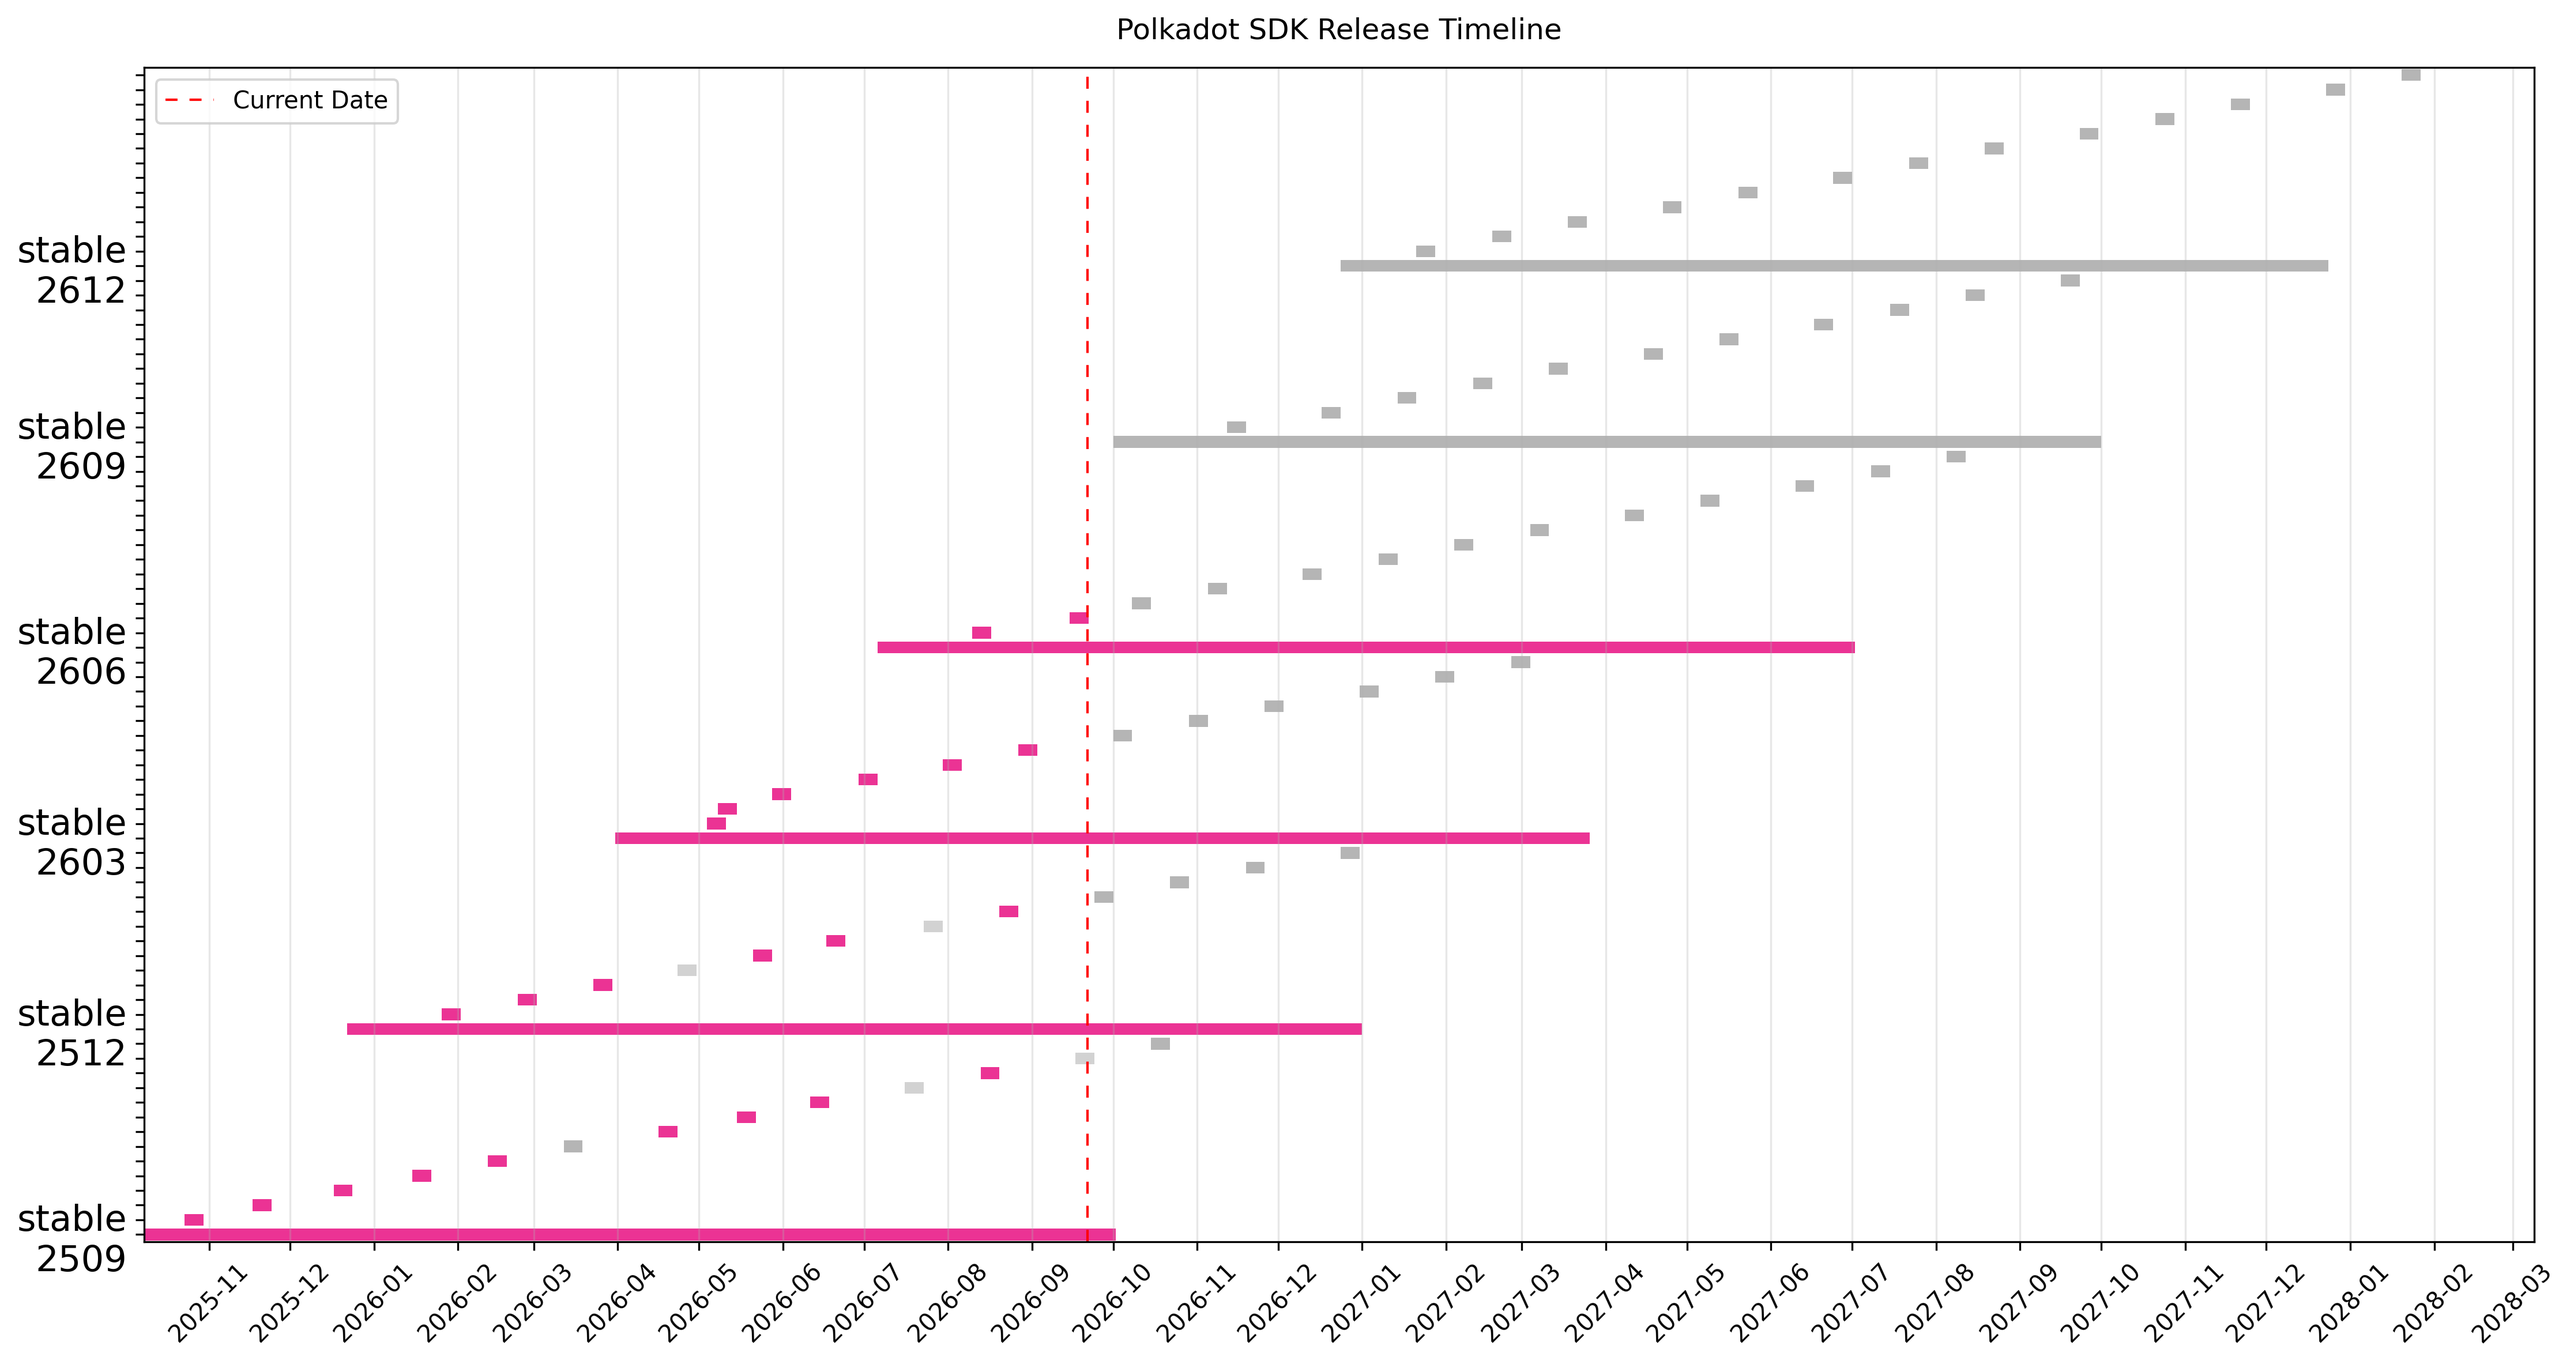
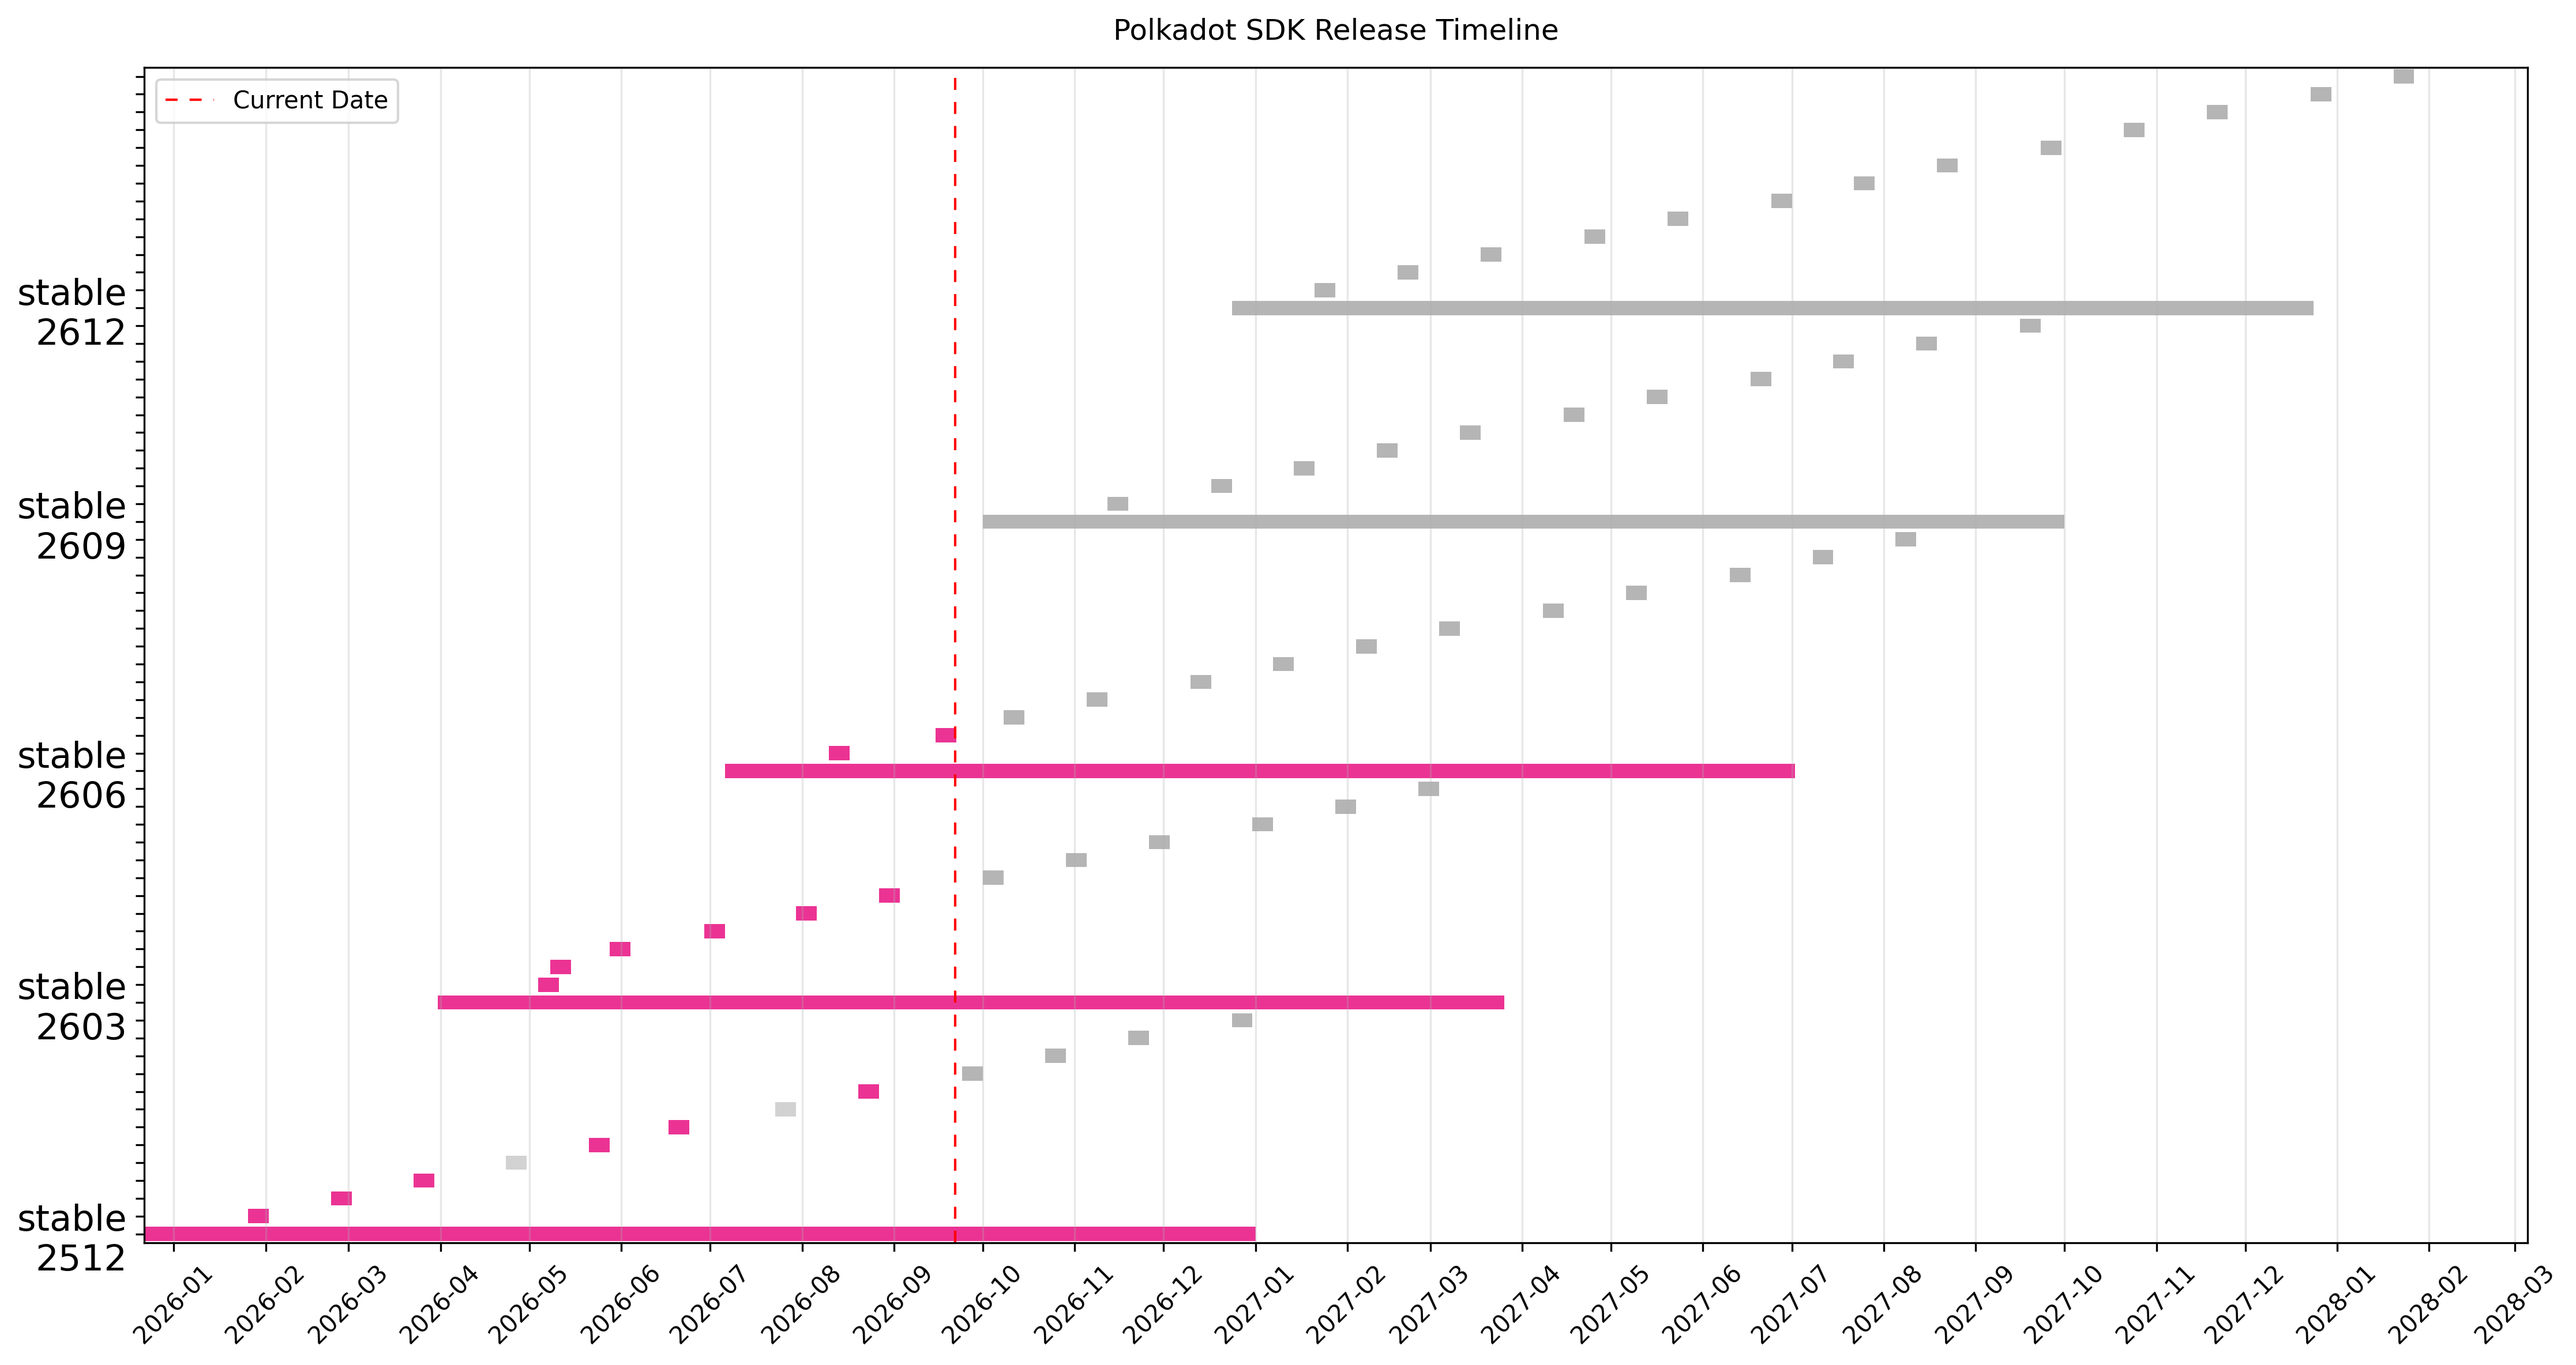
Deprecate stable2509 + add an action that automates it (#162)

diff --git a/CALENDAR.md b/CALENDAR.md
@@ -74,20 +74,20 @@ Full untruncated version index.
 | &nbsp;&nbsp;stable2512-10 | 1.21.10 | 2026-10-19 | 2026-10-22 |  | Planned |
 | &nbsp;&nbsp;stable2512-11 | 1.21.11 | 2026-11-16 | 2026-11-19 |  | Planned |
 | &nbsp;&nbsp;stable2512-12 | 1.21.12 | 2026-12-21 | 2026-12-24 |  | Planned |
-| **stable2509** | 1.20.0 | 2025-08-18 | 2025-10-08 | 2026-10-02 | [Released](https://github.com/paritytech/polkadot-sdk/releases/tag/polkadot-stable2509) |
-| &nbsp;&nbsp;stable2509-1 | 1.20.1 | 2025-10-23 | 2025-10-23 |  | [Released](https://github.com/paritytech/polkadot-sdk/releases/tag/polkadot-stable2509-1) |
-| &nbsp;&nbsp;stable2509-2 | 1.20.2 | 2025-11-17 | 2025-11-17 |  | [Released](https://github.com/paritytech/polkadot-sdk/releases/tag/polkadot-stable2509-2) |
-| &nbsp;&nbsp;stable2509-3 | 1.20.3 | 2025-12-17 | 2025-12-17 |  | [Released](https://github.com/paritytech/polkadot-sdk/releases/tag/polkadot-stable2509-3) |
-| &nbsp;&nbsp;stable2509-4 | 1.20.4 | 2026-01-15 | 2026-01-15 |  | [Released](https://github.com/paritytech/polkadot-sdk/releases/tag/polkadot-stable2509-4) |
-| &nbsp;&nbsp;stable2509-5 | 1.20.5 | 2026-02-12 | 2026-02-12 |  | [Released](https://github.com/paritytech/polkadot-sdk/releases/tag/polkadot-stable2509-5) |
-| &nbsp;&nbsp;stable2509-7 | 1.20.7 | 2026-04-13 | 2026-04-16 |  | [Released](https://github.com/paritytech/polkadot-sdk/releases/tag/polkadot-stable2509-7) |
-| &nbsp;&nbsp;stable2509-8 | 1.20.8 | 2026-05-15 | 2026-05-15 |  | [Released](https://github.com/paritytech/polkadot-sdk/releases/tag/polkadot-stable2509-8) |
-| &nbsp;&nbsp;stable2509-9 | 1.20.9 | 2026-06-11 | 2026-06-11 |  | [Released](https://github.com/paritytech/polkadot-sdk/releases/tag/polkadot-stable2509-9) |
+| **stable2509** | 1.20.0 | 2025-08-18 | 2025-10-08 | 2026-10-02 | ~~[Deprecated](https://github.com/paritytech/polkadot-sdk/releases/tag/polkadot-stable2509)~~ |
+| &nbsp;&nbsp;stable2509-1 | 1.20.1 | 2025-10-23 | 2025-10-23 |  | ~~[Deprecated](https://github.com/paritytech/polkadot-sdk/releases/tag/polkadot-stable2509-1)~~ |
+| &nbsp;&nbsp;stable2509-2 | 1.20.2 | 2025-11-17 | 2025-11-17 |  | ~~[Deprecated](https://github.com/paritytech/polkadot-sdk/releases/tag/polkadot-stable2509-2)~~ |
+| &nbsp;&nbsp;stable2509-3 | 1.20.3 | 2025-12-17 | 2025-12-17 |  | ~~[Deprecated](https://github.com/paritytech/polkadot-sdk/releases/tag/polkadot-stable2509-3)~~ |
+| &nbsp;&nbsp;stable2509-4 | 1.20.4 | 2026-01-15 | 2026-01-15 |  | ~~[Deprecated](https://github.com/paritytech/polkadot-sdk/releases/tag/polkadot-stable2509-4)~~ |
+| &nbsp;&nbsp;stable2509-5 | 1.20.5 | 2026-02-12 | 2026-02-12 |  | ~~[Deprecated](https://github.com/paritytech/polkadot-sdk/releases/tag/polkadot-stable2509-5)~~ |
+| &nbsp;&nbsp;stable2509-6 | 1.20.6 | 2026-03-09 | 2026-03-12 |  | ~~Cancelled~~ |
+| &nbsp;&nbsp;stable2509-7 | 1.20.7 | 2026-04-13 | 2026-04-16 |  | ~~[Deprecated](https://github.com/paritytech/polkadot-sdk/releases/tag/polkadot-stable2509-7)~~ |
+| &nbsp;&nbsp;stable2509-8 | 1.20.8 | 2026-05-15 | 2026-05-15 |  | ~~[Deprecated](https://github.com/paritytech/polkadot-sdk/releases/tag/polkadot-stable2509-8)~~ |
+| &nbsp;&nbsp;stable2509-9 | 1.20.9 | 2026-06-11 | 2026-06-11 |  | ~~[Deprecated](https://github.com/paritytech/polkadot-sdk/releases/tag/polkadot-stable2509-9)~~ |
 | &nbsp;&nbsp;stable2509-10 | 1.20.10 | 2026-07-13 | 2026-07-16 |  | ~~Cancelled~~ |
-| &nbsp;&nbsp;stable2509-11 | 1.20.11 | 2026-08-13 | 2026-08-13 |  | [Released](https://github.com/paritytech/polkadot-sdk/releases/tag/polkadot-stable2509-11) |
+| &nbsp;&nbsp;stable2509-11 | 1.20.11 | 2026-08-13 | 2026-08-13 |  | ~~[Deprecated](https://github.com/paritytech/polkadot-sdk/releases/tag/polkadot-stable2509-11)~~ |
 | &nbsp;&nbsp;stable2509-12 | 1.20.12 | 2026-09-14 | 2026-09-17 |  | ~~Cancelled~~ |
-| &nbsp;&nbsp;stable2509-6 | 1.20.6 | 2026-03-09 | 2026-03-12 |  | Planned |
-| &nbsp;&nbsp;stable2509-13 | 1.20.13 | 2026-10-12 | 2026-10-15 |  | Planned |
+| &nbsp;&nbsp;stable2509-13 | 1.20.13 | 2026-10-12 | 2026-10-15 |  | ~~Cancelled~~ |
 | **stable2506** | 1.19.0 | 2025-05-15 | 2025-07-24 | 2026-06-30 | ~~[Deprecated](https://github.com/paritytech/polkadot-sdk/releases/tag/polkadot-stable2506)~~ |
 | &nbsp;&nbsp;stable2506-1 | 1.19.1 | 2025-08-19 | 2025-08-19 |  | ~~[Deprecated](https://github.com/paritytech/polkadot-sdk/releases/tag/polkadot-stable2506-1)~~ |
 | &nbsp;&nbsp;stable2506-2 | 1.19.2 | 2025-09-08 | 2025-09-08 |  | ~~[Deprecated](https://github.com/paritytech/polkadot-sdk/releases/tag/polkadot-stable2506-2)~~ |

diff --git a/README.md b/README.md
@@ -46,12 +46,10 @@ Planned and historic release dates:
 | &nbsp;&nbsp;stable2512-9 | 1.21.9 | 2026-09-21 | 2026-09-24 |  | Planned |
 | &nbsp;&nbsp;stable2512-10 | 1.21.10 | 2026-10-19 | 2026-10-22 |  | Planned |
 | &nbsp;&nbsp;[6 more past, 2 more planned](CALENDAR.md) |  |  | | |
-| **stable2509** | 1.20.0 | 2025-08-18 | 2025-10-08 | 2026-10-02 | [Released](https://github.com/paritytech/polkadot-sdk/releases/tag/polkadot-stable2509) |
-| &nbsp;&nbsp;stable2509-11 | 1.20.11 | 2026-08-13 | 2026-08-13 |  | [Released](https://github.com/paritytech/polkadot-sdk/releases/tag/polkadot-stable2509-11) |
+| **stable2509** | 1.20.0 | 2025-08-18 | 2025-10-08 | 2026-10-02 | ~~[Deprecated](https://github.com/paritytech/polkadot-sdk/releases/tag/polkadot-stable2509)~~ |
 | &nbsp;&nbsp;stable2509-12 | 1.20.12 | 2026-09-14 | 2026-09-17 |  | ~~Cancelled~~ |
-| &nbsp;&nbsp;stable2509-6 | 1.20.6 | 2026-03-09 | 2026-03-12 |  | Planned |
-| &nbsp;&nbsp;stable2509-13 | 1.20.13 | 2026-10-12 | 2026-10-15 |  | Planned |
-| &nbsp;&nbsp;[9 more past](CALENDAR.md) |  |  | | |
+| &nbsp;&nbsp;stable2509-13 | 1.20.13 | 2026-10-12 | 2026-10-15 |  | ~~Cancelled~~ |
+| &nbsp;&nbsp;[11 more past](CALENDAR.md) |  |  | | |
 | **stable2506** | 1.19.0 | 2025-05-15 | 2025-07-24 | 2026-06-30 | ~~[Deprecated](https://github.com/paritytech/polkadot-sdk/releases/tag/polkadot-stable2506)~~ |
 | &nbsp;&nbsp;stable2506-11 | 1.19.11 | 2026-05-07 | 2026-05-07 |  | ~~[Deprecated](https://github.com/paritytech/polkadot-sdk/releases/tag/polkadot-stable2506-11)~~ |
 | &nbsp;&nbsp;stable2506-12 | 1.19.12 | 2026-06-10 | 2026-06-10 |  | ~~[Deprecated](https://github.com/paritytech/polkadot-sdk/releases/tag/polkadot-stable2506-12)~~ |
@@ -143,6 +141,16 @@ python3 scripts/manage.py release cutoff stable2407-2 2024-09-02
 With `publish` likewise.
 
 Publishing can also be done on GitHub: trigger the **New release** workflow (`.github/workflows/new-release.yml`) from the Actions tab. It takes the release name and date as inputs, runs the `publish` command, regenerates all derived files, and opens a PR against `main`.
+
+### Release Deprecation
+
+Once a release reaches its end of life, deprecate it and point users at its successor. Already released patches get marked as deprecated too, while the remaining planned ones are skipped:
+
+```bash
+python3 scripts/manage.py deprecate stable2509 2026-09-21 stable2606
+```
+
+Deprecating can also be done on GitHub: trigger the **Deprecate release** workflow (`.github/workflows/deprecate-release.yml`) from the Actions tab. It takes the release name, deprecation date and the release to use instead as inputs, runs the `deprecate` command, regenerates all derived files, and opens a PR against `main`.
 
 ## Automation
 
